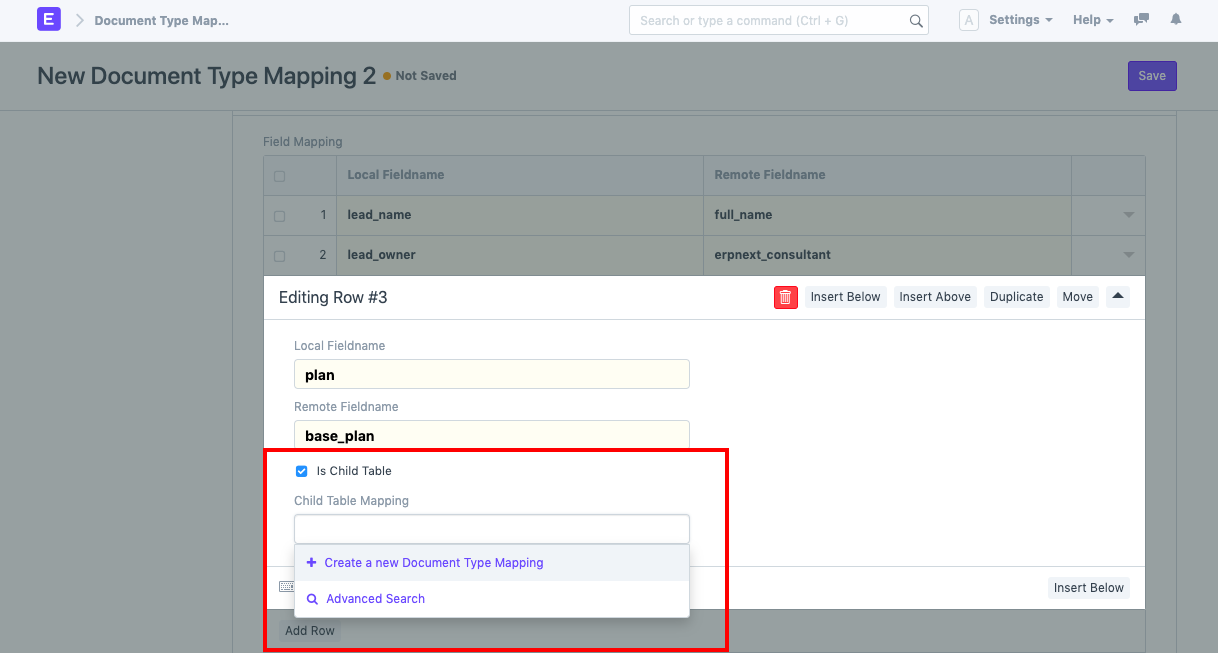
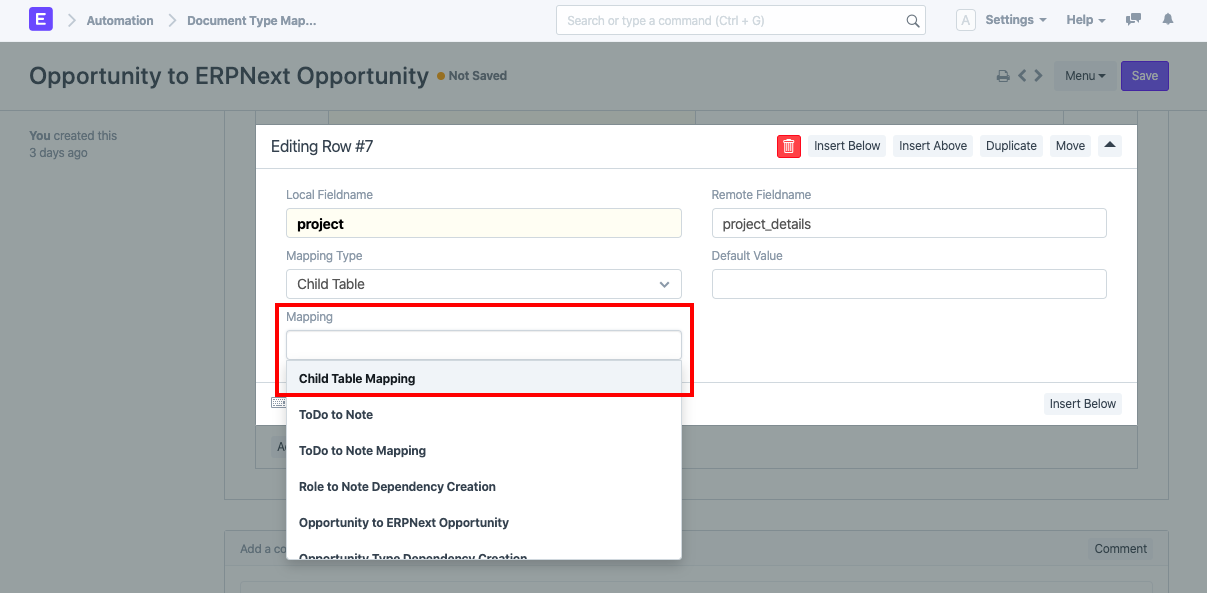
docs: Event Streaming Mapping Details

diff --git a/erpnext_documentation/www/docs/user/manual/en/automation/event_streaming.md b/erpnext_documentation/www/docs/user/manual/en/automation/event_streaming.md
@@ -105,8 +105,13 @@ Check the 'Use Same Name' checkbox to let the documents have same name on both E
 ![Subscribed Document](/docs/assets/img/automation/event-subscribed-doc.png)
 
 ### 3.5 Mapping Configuration
-If you want to stream documents between an ERPNext instance and another Frappe app for a particular Document Type which has the same structure but fieldnames are different in both the sites, you can use Event Streaming with Mapping Configuration.
+
+If you want to stream documents between an ERPNext instance and another Frappe app for a particular Document Type with same or different structure or fieldnames are different in both the sites, you can use Event Streaming with Mapping Configuration.
 For this you need to first set up a Document Type Mapping:
+
+Go to: **Home > Automation > Event Streaming > Document Type Mapping**.
+
+#### 3.5.1 Mapping for DocTypes with similar structure
 
 - **Mapping Name**: Give a unique name to the mapping
 - **Local Document Type**: The Document Type in your current site
@@ -119,11 +124,46 @@ In the Field Mapping child table:
 
 ![Document Type Mapping](/docs/assets/img/automation/event-field-mapping.png)
 
-- **Is Child Table**: If the field you are trying to map is a child table, you need to check this.
-- **Child Table Mapping**: Create another Document Type Mapping for the child table fields and select it here.
+#### 3.5.2 Default Value for some field
 
-![Child Table Mapping](/docs/assets/img/automation/event-map-is-child-table.png)
+If your field is not mapped to any other remote fieldname and you always want the field to have the same value, set the default value field. Event if you have set the remote fieldname, in case during the sync, remote field's value is not found and the "Default Value" has been specified, it will be set.
 
-After this, check the 'Has Mapping' checkbox in the Event Configuration child table in Event Producer against the required Document Type and select the Document Type Mapping you just created.
+![Child Table Mapping Link](/docs/assets/img/automation/default.png)
+
+
+#### 3.5.3 Mapping for DocTypes having child tables
+
+If the field you are trying to map is a child table, you need create another Document Type Mapping for the child table fields.
+
+![Child Table Mapping Link](/docs/assets/img/automation/child_table_map_doc.png)
+
+- **Mapping Type**: Select the Mapping Type as Child Table.
+- **Mapping**: Select the Document Type Mapping doc you created for the child table.
+
+![Child Table Mapping Link](/docs/assets/img/automation/event-map-is-child-table.png)
+
+#### 3.5.4 Mapping for DocTypes having dependencies (Link, Dynamic Link fields)
+
+If the DocTypes you are trying to map, have any kind of dependencies like Link or Dynamic Link fields you need to set up another Document Type Mapping for syncing the dependencies.
+
+For example: The local doctype is Opportunity and remote doctype is ERPNext Opportunity. The field `party_name` (Link field for DocType Lead) in Opportunity is mapped to `full_name` (Data field) in ERPNext Opportunity. During the sync, this Lead has to be created for the main Opportunity to sync. So you need to set up a mapping for this Link Field too.
+
+![Lead Dependency Creation](/docs/assets/img/automation/lead_dependency_creation.png)
+
+- **Mapping Type**: In this case, the Mapping Type is Document.
+- **Mapping**: Select the mapping you just created.
+- **Remote Value Filters**: You need to specify the filters that will fetch the exact remote document to be mapped. Like in this case, the remote DocType is ERPNext Opportunity which can be uniquely fetched using name, phone number and country.
+
+The format is:
+
+{ "remote fieldname": "field or expression from where we will get the value for that fieldname"}
+
+If you want to fetch the value from somewhere start the expression with eval:
+
+Like in this case it is: `eval:frappe.db.get_value('Global Defaults', None, 'country')`
+
+![Document Mapping Type](/docs/assets/img/automation/document_mapping_type.png)
+
+At last, check the 'Has Mapping' checkbox in the Event Configuration child table in Event Producer against the required Document Type and select the Document Type Mapping you just created.
 
 ![Mapping Configuration](/docs/assets/img/automation/event-mapping-conf.png)
